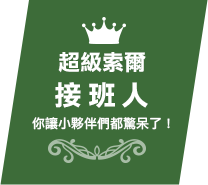
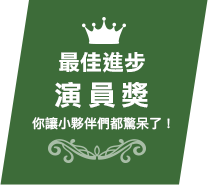
update option image

Changed region(s): [[0.2596, 0.2703, 0.7212, 0.4054], [0.2596, 0.4324, 0.5481, 0.5946], [0.5769, 0.4324, 0.7212, 0.5946]]

diff --git a/2015q4/index.html b/2015q4/index.html
@@ -103,8 +103,8 @@ _atrk_opts = { atrk_acct:"JenUk1a4SBe0Y8", domain:"fanily.tw",dynamic: true};
 			<ul class="nav-list">
 				<li><a href="vote11.html">金馬遺珠電影</a></li>
 				<li><a href="vote12.html">最耀眼遺珠演員</a></li>
-				<li><a href="vote13.html">最瞎暗黑踩雷片</a></li>
-				<li><a href="vote14.html">超級索爾接班人</a></li>
+				<li><a href="vote13.html">神乎其技劇情片</a></li>
+				<li><a href="vote14.html">最佳進步演員獎</a></li>
 				<li><a href="vote15.html">歷屆贏家之最</a></li>
 			</ul>
 		</li>
@@ -208,31 +208,31 @@ _atrk_opts = { atrk_acct:"JenUk1a4SBe0Y8", domain:"fanily.tw",dynamic: true};
 		<div class="vote-block-div">
 			
 				<div class="column">
-					<div class="column-title"><img src="img/vote-title-11.png"></div>
+					<div class="column-title"><img src="img/vote-title-11.png?v=1"></div>
 					<ul id="group11"></ul>
 					<a href="vote11.html" class="more">看更多</a>
 				</div>
 			
 				<div class="column">
-					<div class="column-title"><img src="img/vote-title-12.png"></div>
+					<div class="column-title"><img src="img/vote-title-12.png?v=1"></div>
 					<ul id="group12"></ul>
 					<a href="vote12.html" class="more">看更多</a>
 				</div>
 			
 				<div class="column">
-					<div class="column-title"><img src="img/vote-title-13.png"></div>
+					<div class="column-title"><img src="img/vote-title-13.png?v=1"></div>
 					<ul id="group13"></ul>
 					<a href="vote13.html" class="more">看更多</a>
 				</div>
 			
 				<div class="column">
-					<div class="column-title"><img src="img/vote-title-14.png"></div>
+					<div class="column-title"><img src="img/vote-title-14.png?v=1"></div>
 					<ul id="group14"></ul>
 					<a href="vote14.html" class="more">看更多</a>
 				</div>
 			
 				<div class="column">
-					<div class="column-title"><img src="img/vote-title-15.png"></div>
+					<div class="column-title"><img src="img/vote-title-15.png?v=1"></div>
 					<ul id="group15"></ul>
 					<a href="vote15.html" class="more">看更多</a>
 				</div>

diff --git a/2015q4/vote13.html b/2015q4/vote13.html
@@ -1,7 +1,7 @@
 <!doctype html>
 <html>
 <head>
-<title>最瞎暗黑踩雷片 - 金馬閃亮星電影大賞 - Fanily粉絲玩樂</title>
+<title>神乎其技劇情片 - 金馬閃亮星電影大賞 - Fanily粉絲玩樂</title>
 <meta http-equiv="Content-Type" content="text/html; charset=utf-8" />
 <meta name="google-site-verification" content="arIKUBi7YUSDjkslpdv1gSBSCjADcN99aMh0FJyliIo" />
 <link rel="icon" type="image/png" href="favicon.ico" />
@@ -110,8 +110,8 @@ _atrk_opts = { atrk_acct:"JenUk1a4SBe0Y8", domain:"fanily.tw",dynamic: true};
 			<ul class="nav-list">
 				<li><a href="vote11.html">金馬遺珠電影</a></li>
 				<li><a href="vote12.html">最耀眼遺珠演員</a></li>
-				<li><a href="vote13.html">最瞎暗黑踩雷片</a></li>
-				<li><a href="vote14.html">超級索爾接班人</a></li>
+				<li><a href="vote13.html">神乎其技劇情片</a></li>
+				<li><a href="vote14.html">最佳進步演員獎</a></li>
 				<li><a href="vote15.html">歷屆贏家之最</a></li>
 			</ul>
 		</li>
@@ -143,11 +143,11 @@ _atrk_opts = { atrk_acct:"JenUk1a4SBe0Y8", domain:"fanily.tw",dynamic: true};
 	</script>
 </div>
 	<div class="main2">
-		<div class="column-list-title"><img src="img/title-13.png"></div>
+		<div class="column-list-title"><img src="img/title-13.png?v=1"></div>
 		<div class="column">
 		<ul id="group"></ul>
 		<!-- <a href="https://www.fanily.tw/post/11e540a2cd3199d89aa342010af07fd1" class="more-btn" target="_blank">
-			看更多關於最瞎暗黑踩雷片<span class="glyphicons glyphicons-play"></span>
+			看更多關於神乎其技劇情片<span class="glyphicons glyphicons-play"></span>
 		</a> -->
 		<script type="text/javascript">
 		(function() {

diff --git a/2015q4/vote14.html b/2015q4/vote14.html
@@ -1,7 +1,7 @@
 <!doctype html>
 <html>
 <head>
-<title>超級索爾接班人 - 金馬閃亮星電影大賞 - Fanily粉絲玩樂</title>
+<title>最佳進步演員獎 - 金馬閃亮星電影大賞 - Fanily粉絲玩樂</title>
 <meta http-equiv="Content-Type" content="text/html; charset=utf-8" />
 <meta name="google-site-verification" content="arIKUBi7YUSDjkslpdv1gSBSCjADcN99aMh0FJyliIo" />
 <link rel="icon" type="image/png" href="favicon.ico" />
@@ -110,8 +110,8 @@ _atrk_opts = { atrk_acct:"JenUk1a4SBe0Y8", domain:"fanily.tw",dynamic: true};
 			<ul class="nav-list">
 				<li><a href="vote11.html">金馬遺珠電影</a></li>
 				<li><a href="vote12.html">最耀眼遺珠演員</a></li>
-				<li><a href="vote13.html">最瞎暗黑踩雷片</a></li>
-				<li><a href="vote14.html">超級索爾接班人</a></li>
+				<li><a href="vote13.html">神乎其技劇情片</a></li>
+				<li><a href="vote14.html">最佳進步演員獎</a></li>
 				<li><a href="vote15.html">歷屆贏家之最</a></li>
 			</ul>
 		</li>
@@ -143,11 +143,11 @@ _atrk_opts = { atrk_acct:"JenUk1a4SBe0Y8", domain:"fanily.tw",dynamic: true};
 	</script>
 </div>
 	<div class="main2">
-		<div class="column-list-title"><img src="img/title-14.png"></div>
+		<div class="column-list-title"><img src="img/title-14.png?v=1"></div>
 		<div class="column">
 		<ul id="group"></ul>
 		<!-- <a href="https://www.fanily.tw/post/11e54098db32ee999aa342010af07fd1" class="more-btn" target="_blank">
-			看更多關於超級索爾接班人<span class="glyphicons glyphicons-play"></span>
+			看更多關於最佳進步演員獎<span class="glyphicons glyphicons-play"></span>
 		</a> -->
 		<script type="text/javascript">
 		(function() {

diff --git a/2015q4/rule.html b/2015q4/rule.html
@@ -104,8 +104,8 @@ _atrk_opts = { atrk_acct:"JenUk1a4SBe0Y8", domain:"fanily.tw",dynamic: true};
 			<ul class="nav-list">
 				<li><a href="vote11.html">金馬遺珠電影</a></li>
 				<li><a href="vote12.html">最耀眼遺珠演員</a></li>
-				<li><a href="vote13.html">最瞎暗黑踩雷片</a></li>
-				<li><a href="vote14.html">超級索爾接班人</a></li>
+				<li><a href="vote13.html">神乎其技劇情片</a></li>
+				<li><a href="vote14.html">最佳進步演員獎</a></li>
 				<li><a href="vote15.html">歷屆贏家之最</a></li>
 			</ul>
 		</li>

diff --git a/2015q4/video.html b/2015q4/video.html
@@ -104,8 +104,8 @@ _atrk_opts = { atrk_acct:"JenUk1a4SBe0Y8", domain:"fanily.tw",dynamic: true};
 			<ul class="nav-list">
 				<li><a href="vote11.html">金馬遺珠電影</a></li>
 				<li><a href="vote12.html">最耀眼遺珠演員</a></li>
-				<li><a href="vote13.html">最瞎暗黑踩雷片</a></li>
-				<li><a href="vote14.html">超級索爾接班人</a></li>
+				<li><a href="vote13.html">神乎其技劇情片</a></li>
+				<li><a href="vote14.html">最佳進步演員獎</a></li>
 				<li><a href="vote15.html">歷屆贏家之最</a></li>
 			</ul>
 		</li>

diff --git a/2015q4/vote1.html b/2015q4/vote1.html
@@ -110,8 +110,8 @@ _atrk_opts = { atrk_acct:"JenUk1a4SBe0Y8", domain:"fanily.tw",dynamic: true};
 			<ul class="nav-list">
 				<li><a href="vote11.html">金馬遺珠電影</a></li>
 				<li><a href="vote12.html">最耀眼遺珠演員</a></li>
-				<li><a href="vote13.html">最瞎暗黑踩雷片</a></li>
-				<li><a href="vote14.html">超級索爾接班人</a></li>
+				<li><a href="vote13.html">神乎其技劇情片</a></li>
+				<li><a href="vote14.html">最佳進步演員獎</a></li>
 				<li><a href="vote15.html">歷屆贏家之最</a></li>
 			</ul>
 		</li>

diff --git a/2015q4/vote10.html b/2015q4/vote10.html
@@ -110,8 +110,8 @@ _atrk_opts = { atrk_acct:"JenUk1a4SBe0Y8", domain:"fanily.tw",dynamic: true};
 			<ul class="nav-list">
 				<li><a href="vote11.html">金馬遺珠電影</a></li>
 				<li><a href="vote12.html">最耀眼遺珠演員</a></li>
-				<li><a href="vote13.html">最瞎暗黑踩雷片</a></li>
-				<li><a href="vote14.html">超級索爾接班人</a></li>
+				<li><a href="vote13.html">神乎其技劇情片</a></li>
+				<li><a href="vote14.html">最佳進步演員獎</a></li>
 				<li><a href="vote15.html">歷屆贏家之最</a></li>
 			</ul>
 		</li>

diff --git a/2015q4/vote11.html b/2015q4/vote11.html
@@ -110,8 +110,8 @@ _atrk_opts = { atrk_acct:"JenUk1a4SBe0Y8", domain:"fanily.tw",dynamic: true};
 			<ul class="nav-list">
 				<li><a href="vote11.html">金馬遺珠電影</a></li>
 				<li><a href="vote12.html">最耀眼遺珠演員</a></li>
-				<li><a href="vote13.html">最瞎暗黑踩雷片</a></li>
-				<li><a href="vote14.html">超級索爾接班人</a></li>
+				<li><a href="vote13.html">神乎其技劇情片</a></li>
+				<li><a href="vote14.html">最佳進步演員獎</a></li>
 				<li><a href="vote15.html">歷屆贏家之最</a></li>
 			</ul>
 		</li>

diff --git a/2015q4/vote12.html b/2015q4/vote12.html
@@ -110,8 +110,8 @@ _atrk_opts = { atrk_acct:"JenUk1a4SBe0Y8", domain:"fanily.tw",dynamic: true};
 			<ul class="nav-list">
 				<li><a href="vote11.html">金馬遺珠電影</a></li>
 				<li><a href="vote12.html">最耀眼遺珠演員</a></li>
-				<li><a href="vote13.html">最瞎暗黑踩雷片</a></li>
-				<li><a href="vote14.html">超級索爾接班人</a></li>
+				<li><a href="vote13.html">神乎其技劇情片</a></li>
+				<li><a href="vote14.html">最佳進步演員獎</a></li>
 				<li><a href="vote15.html">歷屆贏家之最</a></li>
 			</ul>
 		</li>

diff --git a/2015q4/vote15.html b/2015q4/vote15.html
@@ -110,8 +110,8 @@ _atrk_opts = { atrk_acct:"JenUk1a4SBe0Y8", domain:"fanily.tw",dynamic: true};
 			<ul class="nav-list">
 				<li><a href="vote11.html">金馬遺珠電影</a></li>
 				<li><a href="vote12.html">最耀眼遺珠演員</a></li>
-				<li><a href="vote13.html">最瞎暗黑踩雷片</a></li>
-				<li><a href="vote14.html">超級索爾接班人</a></li>
+				<li><a href="vote13.html">神乎其技劇情片</a></li>
+				<li><a href="vote14.html">最佳進步演員獎</a></li>
 				<li><a href="vote15.html">歷屆贏家之最</a></li>
 			</ul>
 		</li>

diff --git a/2015q4/vote2.html b/2015q4/vote2.html
@@ -110,8 +110,8 @@ _atrk_opts = { atrk_acct:"JenUk1a4SBe0Y8", domain:"fanily.tw",dynamic: true};
 			<ul class="nav-list">
 				<li><a href="vote11.html">金馬遺珠電影</a></li>
 				<li><a href="vote12.html">最耀眼遺珠演員</a></li>
-				<li><a href="vote13.html">最瞎暗黑踩雷片</a></li>
-				<li><a href="vote14.html">超級索爾接班人</a></li>
+				<li><a href="vote13.html">神乎其技劇情片</a></li>
+				<li><a href="vote14.html">最佳進步演員獎</a></li>
 				<li><a href="vote15.html">歷屆贏家之最</a></li>
 			</ul>
 		</li>

diff --git a/2015q4/vote3.html b/2015q4/vote3.html
@@ -110,8 +110,8 @@ _atrk_opts = { atrk_acct:"JenUk1a4SBe0Y8", domain:"fanily.tw",dynamic: true};
 			<ul class="nav-list">
 				<li><a href="vote11.html">金馬遺珠電影</a></li>
 				<li><a href="vote12.html">最耀眼遺珠演員</a></li>
-				<li><a href="vote13.html">最瞎暗黑踩雷片</a></li>
-				<li><a href="vote14.html">超級索爾接班人</a></li>
+				<li><a href="vote13.html">神乎其技劇情片</a></li>
+				<li><a href="vote14.html">最佳進步演員獎</a></li>
 				<li><a href="vote15.html">歷屆贏家之最</a></li>
 			</ul>
 		</li>
